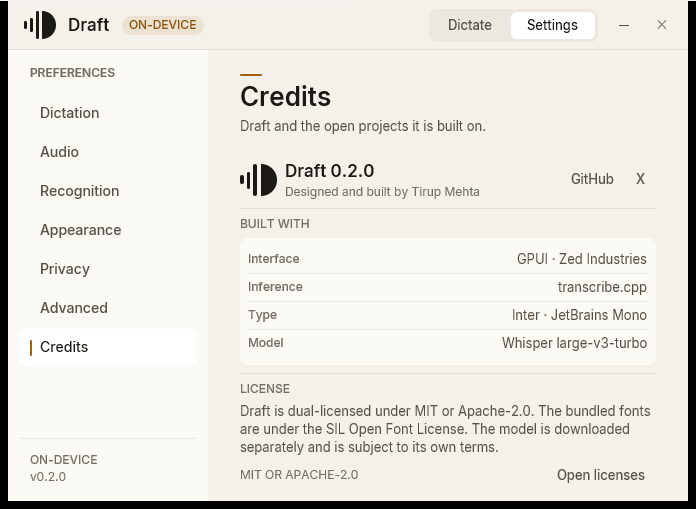
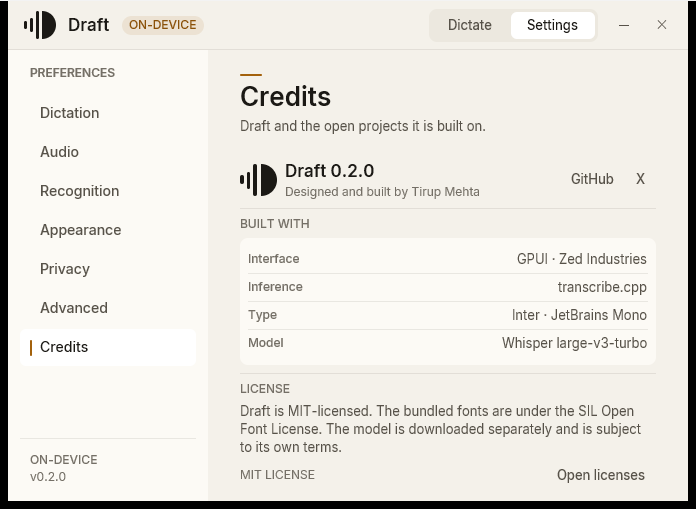
fix: consolidate the license and use the launch graphics
Keep a single MIT LICENSE, remove the MIT/Apache duplicate files and their
references, and delete the old copies from installed builds on upgrade.

Lead the README with the launch social cover and the Dictate, Listening, and
HUD product cards, refresh the Credits capture, and add CONTRIBUTING.md.

Changed region(s): [[0.3319, 0.7957, 0.9353, 0.943]]

diff --git a/apps/desktop/src/app.rs b/apps/desktop/src/app.rs
@@ -2739,7 +2739,7 @@ impl DraftApp {
                     .text_size(px(theme::type_size::SMALL))
                     .line_height(px(18.0))
                     .text_color(palette.secondary)
-                    .child("Draft is dual-licensed under MIT or Apache-2.0. The bundled fonts are under the SIL Open Font License. The model is downloaded separately and is subject to its own terms."),
+                    .child("Draft is MIT-licensed. The bundled fonts are under the SIL Open Font License. The model is downloaded separately and is subject to its own terms."),
             )
             .child(
                 div()
@@ -2752,7 +2752,7 @@ impl DraftApp {
                             .text_size(px(theme::type_size::META))
                             .line_height(px(theme::line::META))
                             .text_color(palette.tertiary)
-                            .child("MIT OR APACHE-2.0"),
+                            .child("MIT LICENSE"),
                     )
                     .child(licenses),
             );

diff --git a/CONTRIBUTING.md b/CONTRIBUTING.md
@@ -1,0 +1,93 @@
+# Contributing to Draft
+
+Draft is a small, focused Windows app. Contributions are welcome when they keep
+it fast, private, and honest.
+
+## Before you start
+
+Read these first:
+
+- [AGENTS.md](AGENTS.md) — the working agreement, design system, build rules,
+  and the hard constraints.
+- [docs/SPEC.md](docs/SPEC.md) — the product contract.
+- [docs/ROADMAP.md](docs/ROADMAP.md) — what is actually planned.
+- [docs/PERFORMANCE.md](docs/PERFORMANCE.md) — the speed budget and method.
+
+Windows x64 is the supported target today. macOS and Linux are future work;
+please do not add a platform shell just to make a change compile.
+
+## Set up the toolchain
+
+You need Rust stable, Microsoft C++ Build Tools, CMake, and the Vulkan SDK.
+
+```powershell
+powershell -ExecutionPolicy Bypass -File .\scripts\setup-windows.ps1
+cargo run -p draft-desktop
+```
+
+The app looks for the F16 model at
+`%LOCALAPPDATA%\Draft4\models\whisper-large-v3-turbo-F16.gguf`. Install or
+verify it with:
+
+```powershell
+cargo run -p draft -- model install
+cargo run -p draft -- model status
+```
+
+## Make a change
+
+- Keep the change focused. A bug fix does not need a surrounding cleanup.
+- Follow the design system in `apps/desktop/src/theme.rs`. Do not hard-code a
+  color, size, radius, or font in a view.
+- The interface must be truthful. Never fake a recording, a level, a model
+  state, a latency number, or a permission.
+- Keep idle at zero repaints. If you add motion, it must settle and stop.
+- No new runtime dependency, telemetry, crash reporting, or network call
+  without a clear reason in the pull request. The model download is the one
+  documented exception.
+- Put test-only affordances in `tools/` or behind `debug_assertions`, never in
+  the shipped path.
+- Update the docs when behavior, defaults, or the design rules change.
+
+## Run the gates
+
+These are the same checks CI runs:
+
+```powershell
+cargo fmt --all -- --check
+cargo clippy --workspace --all-targets -- -D warnings
+cargo test --workspace
+cargo build --workspace --release
+```
+
+For a UI change, also capture the rendered window with `tools/inspect` and check
+the real text positions and the dark and light palettes. A layout bug is easier
+to see in the coordinates than in a screenshot.
+
+## Pull requests
+
+- One logical change per pull request.
+- Describe the problem, the change, and how you verified it.
+- Include before/after captures for a visual change.
+- Keep commit messages one line in the imperative mood, for example
+  `fix: keep the HUD inside the work area`. Put the reasoning in the body.
+- Do not commit `target/`, `dist/`, `.commandcode/`, or local scratch files.
+
+## License
+
+Draft is released under the [MIT License](LICENSE). By submitting a contribution,
+you agree that it is licensed under the same terms. There is no separate
+contributor license agreement.
+
+## Security
+
+Please do not open a public issue for a security problem. Use GitHub's private
+security advisory for this repository, or contact the maintainer through the
+links in [CREDITS.md](CREDITS.md).
+
+## Questions
+
+Open a discussion or an issue on
+[GitHub](https://github.com/TirupMehta/draft-rs). For the fastest answer,
+include the Windows version, the GPU backend, and the relevant log lines from
+`%LOCALAPPDATA%\Draft4\logs`.

diff --git a/README.md b/README.md
@@ -8,20 +8,20 @@ Local Whisper large-v3-turbo · Vulkan · Native Rust · No account · No teleme
 [Download](#install) · [Project](https://github.com/TirupMehta/draft-rs) ·
 [GitHub](https://github.com/TirupMehta) · [X](https://x.com/TirupMehta)
 
-![Draft, ready to dictate](docs/screenshots/ready.png)
+![Draft — Speak. It appears.](Launch%20Assests/Draft-Launch-Kit/launch-graphics/launch-social-1200x630.png)
 
 Draft is a native Windows dictation app built around a simple loop: hold the
 key, speak naturally, and release. The audio is captured only while the key is
 held, transcribed locally, pasted at the cursor, and discarded. There is no
 cloud, no account, and no audio leaving the machine.
 
-| Listening | Settings |
-| --- | --- |
-| ![Listening](docs/screenshots/listening.png) | ![Settings](docs/screenshots/settings.png) |
+| Dictate | Listening | Recording HUD |
+| --- | --- | --- |
+| ![Dictate](Launch%20Assests/Draft-Launch-Kit/launch-graphics/feature-cards/01-dictate.png) | ![Listening](Launch%20Assests/Draft-Launch-Kit/launch-graphics/feature-cards/09-listening.png) | ![Recording HUD](Launch%20Assests/Draft-Launch-Kit/launch-graphics/feature-cards/10-listening-hud.png) |
 
-| Credits | Recording HUD |
+| Settings | Credits |
 | --- | --- |
-| ![Credits](docs/screenshots/credits.png) | ![Recording HUD](docs/screenshots/hud.png) |
+| ![Settings](docs/screenshots/settings.png) | ![Credits](docs/screenshots/credits.png) |
 
 ## Why Draft
 
@@ -210,10 +210,14 @@ dependency is listed in [THIRD_PARTY_NOTICES.md](THIRD_PARTY_NOTICES.md).
 The Credits section is also available in the app, under Settings → Credits,
 with links to GitHub and X and a button that opens the installed license files.
 
+## Contributing
+
+Read [CONTRIBUTING.md](CONTRIBUTING.md) before opening a change. It covers the
+Windows setup, the design rules, the checks that must pass, and the license.
+
 ## License
 
-Draft is dual-licensed under either the [MIT License](LICENSE-MIT) or the
-[Apache License, Version 2.0](LICENSE-APACHE), at your option. The bundled
-typefaces are under the SIL Open Font License 1.1. The speech model is
-downloaded separately and is subject to its own terms. See [LICENSE](LICENSE),
-[NOTICE](NOTICE), and [CREDITS.md](CREDITS.md).
+Draft is released under the [MIT License](LICENSE). The bundled typefaces are
+under the SIL Open Font License 1.1. The speech model is downloaded separately
+and is subject to its own terms. See [NOTICE](NOTICE),
+[CREDITS.md](CREDITS.md), and [THIRD_PARTY_NOTICES.md](THIRD_PARTY_NOTICES.md).

diff --git a/CREDITS.md b/CREDITS.md
@@ -65,7 +65,6 @@ itself makes no network request for them.
 
 ## License
 
-Draft is available under either the [MIT License](LICENSE-MIT) or the
-[Apache License, Version 2.0](LICENSE-APACHE), at your option. The bundled
-typefaces are under the SIL Open Font License 1.1. The speech model is
-downloaded separately and is subject to its own terms.
+Draft is released under the [MIT License](LICENSE). The bundled typefaces are
+under the SIL Open Font License 1.1. The speech model is downloaded separately
+and is subject to its own terms.

diff --git a/docs/ROADMAP.md b/docs/ROADMAP.md
@@ -18,7 +18,7 @@ Runtime data lives in `%LOCALAPPDATA%\Draft4` so the shipping v3.5 app's
 
 ## M0 — Scaffold and proof
 
-- [x] Initialize repo, MIT OR Apache-2.0 license, `.gitignore`, CI.
+- [x] Initialize repo, MIT license, `.gitignore`, CI.
 - [x] Write the product spec and architecture.
 - [x] Split the platform-neutral core from the CLI.
 - [x] Install Rust, VS Build Tools, and the Windows SDK.

diff --git a/THIRD_PARTY_NOTICES.md b/THIRD_PARTY_NOTICES.md
@@ -433,4 +433,4 @@ The speech model is **Whisper large-v3-turbo** by OpenAI, distributed as a GGUF 
 
 ## Project license
 
-Draft itself is dual-licensed under the MIT License or the Apache License, Version 2.0. See `LICENSE`, `LICENSE-MIT`, and `LICENSE-APACHE`.
+Draft itself is released under the MIT License. See `LICENSE`.
